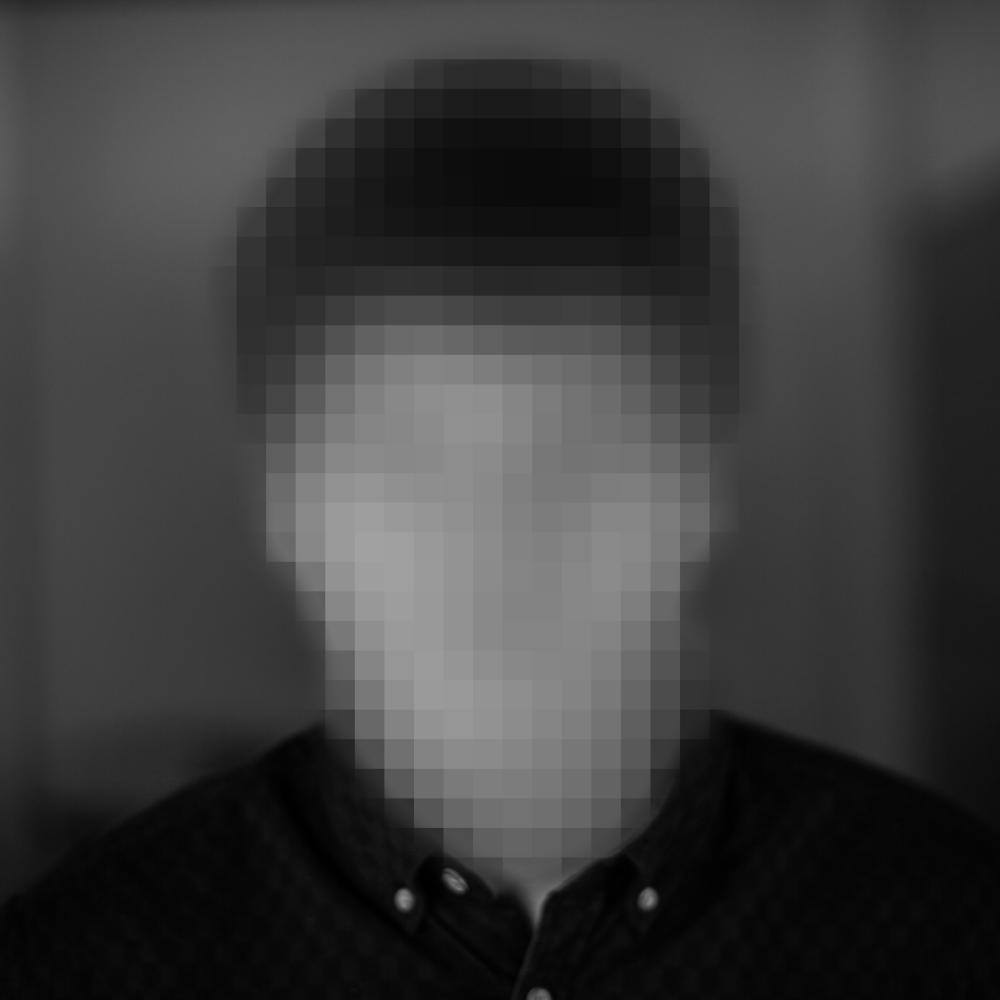
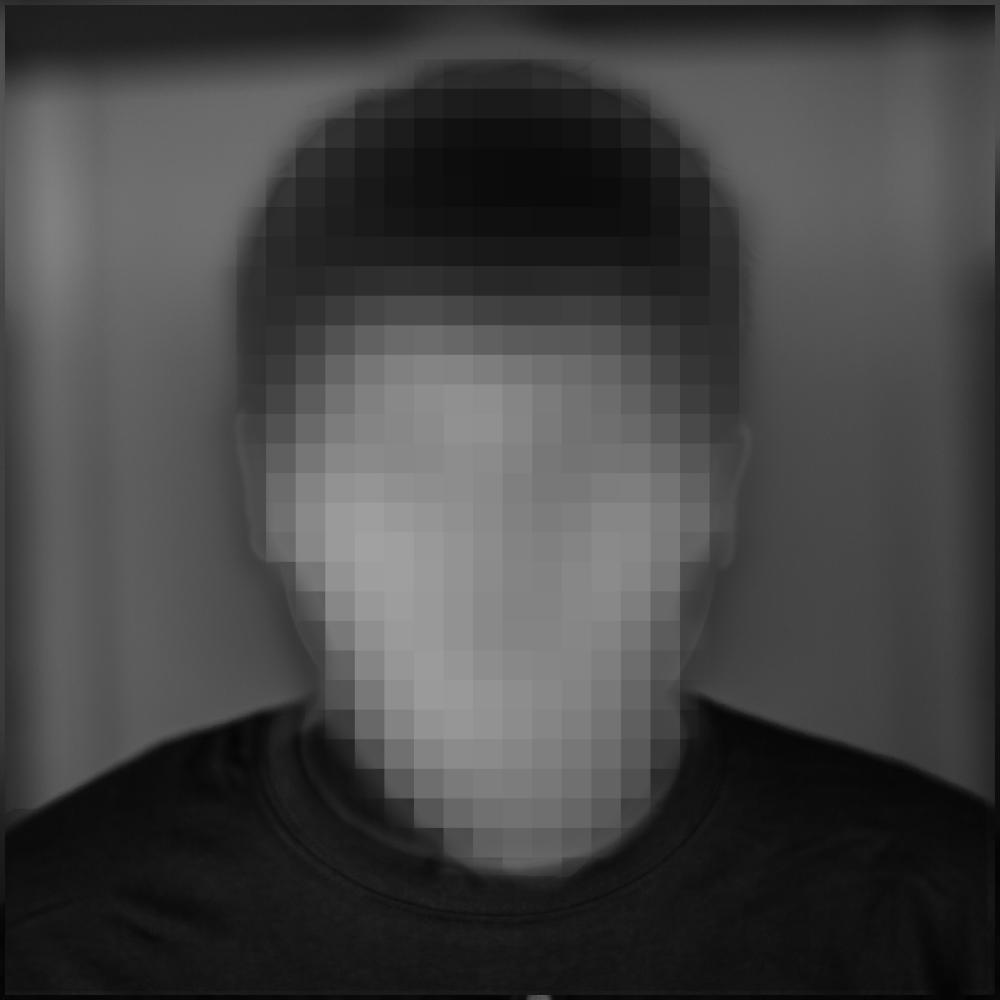
new anon

diff --git a/page-team.php b/page-team.php
@@ -195,7 +195,7 @@
 	</div>
 	<div class="col-md-4">
 		<div class="teamp">
-			<img class="img-responsive img-circle teamimg" alt="photo" src="<?php bloginfo('template_directory'); ?>/assets/img/people/person.jpg" />
+			<img class="img-responsive img-circle teamimg" alt="photo" src="<?php bloginfo('template_directory'); ?>/assets/img/people/person2.jpg" />
 			<h2 class="teamname">Leon Klingele</h2>
 			<div class="teammeta">
 				<h3 class="teamtitle">Software Engineer</h3>
